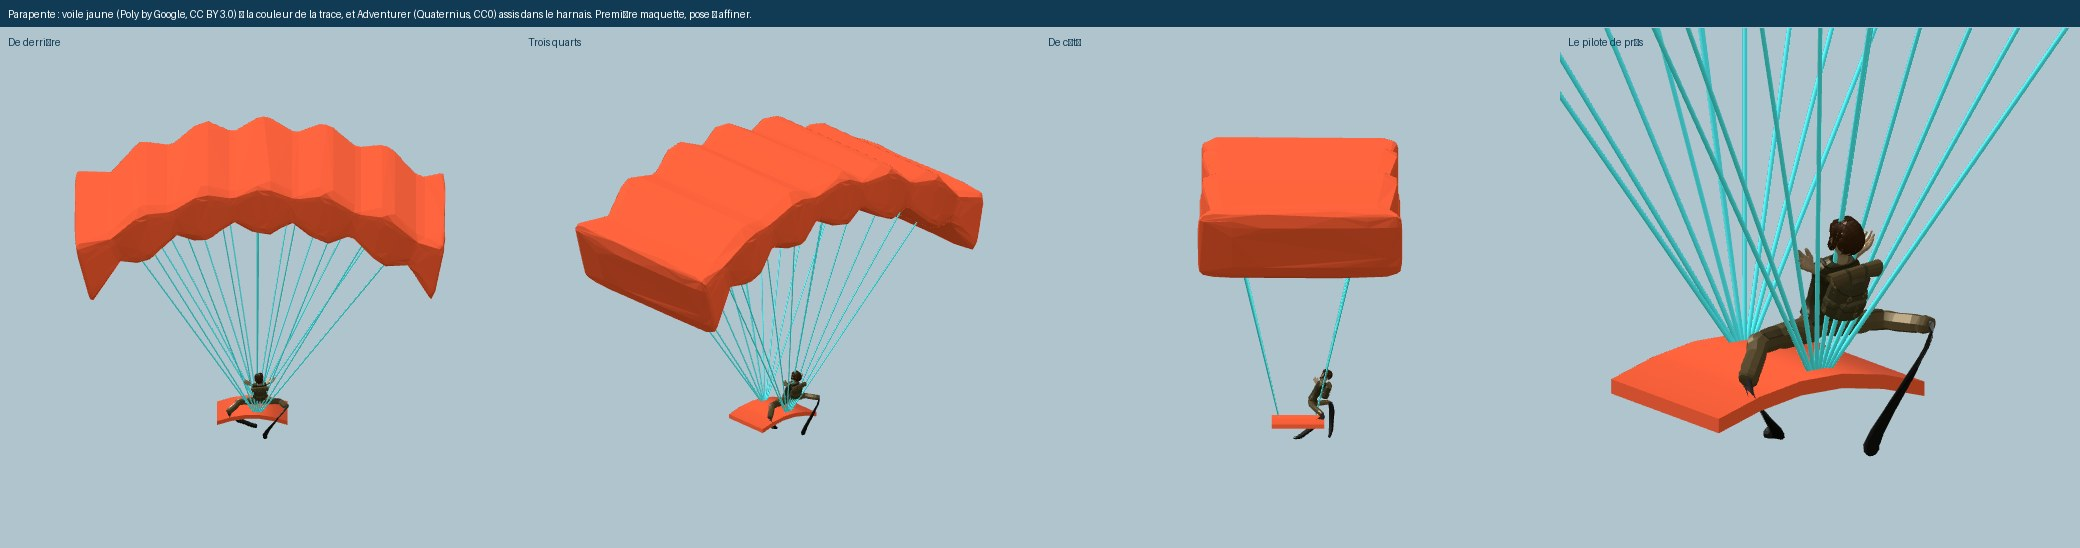
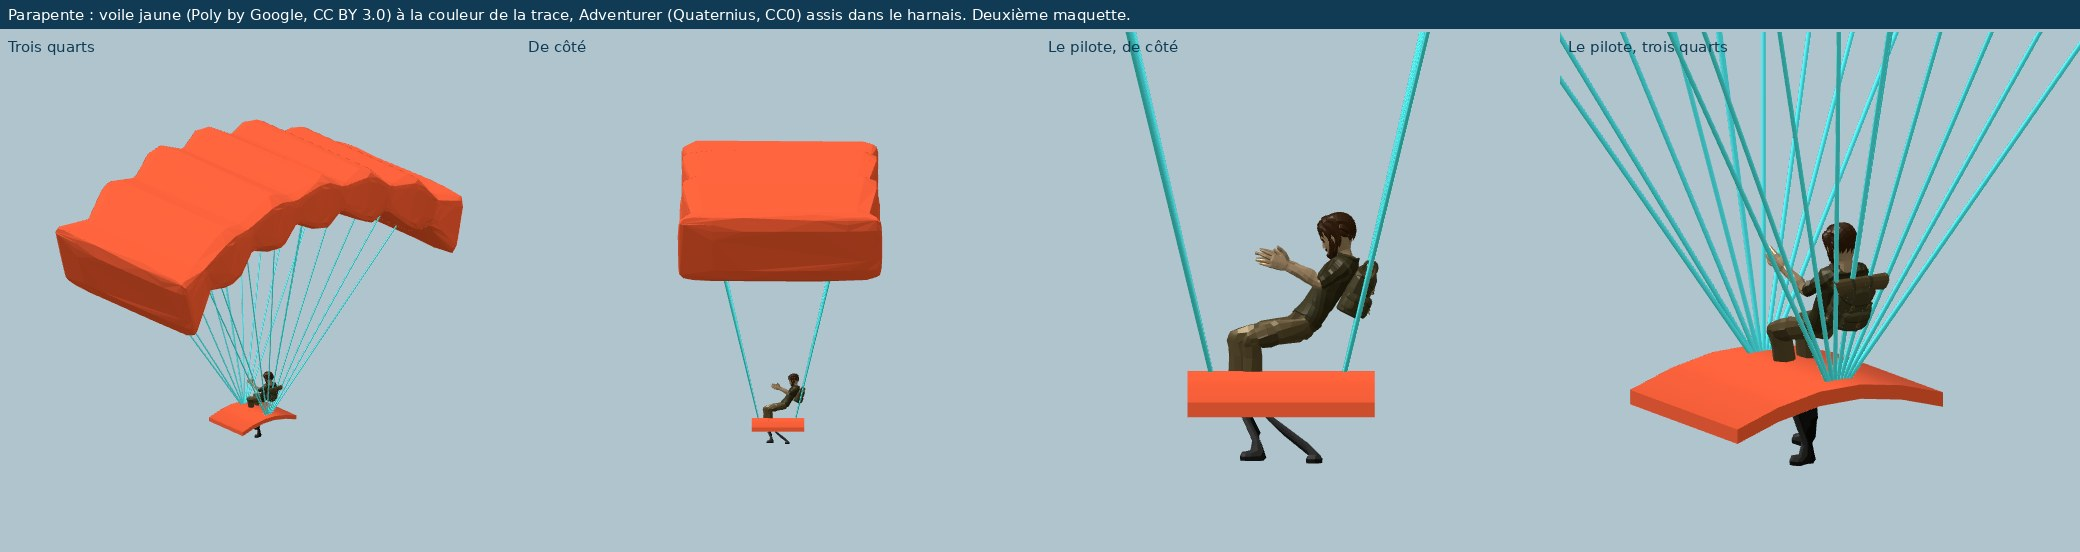
wip(lab): seated paraglider pilot posed by target directions (second mock)

Changed region(s): [[0.0, 0.0, 1.0, 0.8376], [0.0, 0.2172, 0.25, 0.8066], [0.25, 0.2172, 0.5, 0.8066]]

diff --git a/e2e/marker-sheet/pilot.ts b/e2e/marker-sheet/pilot.ts
@@ -1,4 +1,4 @@
-import { AmbientLight, AnimationMixer, Box3, Color, DirectionalLight, DoubleSide, Group, HemisphereLight, Mesh, MeshStandardMaterial, Object3D, OrthographicCamera, Scene, Vector3, WebGLRenderer } from '/node_modules/three/build/three.module.js'
+import { AmbientLight, Box3, Color, DirectionalLight, DoubleSide, Group, HemisphereLight, Mesh, MeshStandardMaterial, Object3D, OrthographicCamera, Quaternion, Scene, Vector3, WebGLRenderer } from '/node_modules/three/build/three.module.js'
 import { GLTFLoader } from '/node_modules/three/examples/jsm/loaders/GLTFLoader.js'
 import { clone } from '/node_modules/three/examples/jsm/utils/SkeletonUtils.js'
 
@@ -33,34 +33,50 @@ const tint = q.get('tint') !== '0'
   // the span is the longest horizontal side: along X (turn if it is along Z), `flip` turns the glider round
   wingHolder.rotation.y = (size.z > size.x ? Math.PI / 2 : 0) + num('flip', 0) * Math.PI
 
-  // --- the pilot: Adventurer 1.7 m, a walking pose to start from, then the legs and arms posed seated
+  // --- the pilot: Adventurer in its rest pose, every body segment turned towards a target direction (the pilot faces +Z)
   const man = clone(manGltf.scene) as Group
-  const mixer = new AnimationMixer(man)
-  const clip = manGltf.animations.find((a) => /walk/i.test(a.name)) ?? manGltf.animations[0]
-  const action = mixer.clipAction(clip)
-  action.play()
-  action.time = num('phase', 0.1) * clip.duration
-  mixer.update(0)
   man.updateMatrixWorld(true)
   const bones: Record<string, Object3D> = {}
   man.traverse((o) => { if ((o as { isBone?: boolean }).isBone) bones[o.name] = o })
-  const rot = (name: string, x: number, y = 0, z = 0) => {
-    const b = bones[name.replace('.', '')]
-    if (!b) return
-    b.rotateX(x)
-    b.rotateY(y)
-    b.rotateZ(z)
+  const B = (name: string) => bones[name.replace('.', '')]
+  const wp = (o: Object3D) => o.getWorldPosition(new Vector3())
+  const wq = (o: Object3D) => o.getWorldQuaternion(new Quaternion())
+  /** direction of each bone towards its child at rest, in the bone's own frame: the axis `aim` turns */
+  const axisOf: Record<string, Vector3> = {}
+  const rest = (name: string, child: string) => {
+    const bone = B(name)
+    axisOf[name] = wp(B(child)).sub(wp(bone)).normalize().applyQuaternion(wq(bone).invert())
   }
-  const sit = num('sit', 1.45)
-  for (const side of ['L', 'R']) {
-    rot(`UpperLeg.${side}`, -sit)
-    rot(`LowerLeg.${side}`, num('knee', 1.25))
-    rot(`Foot.${side}`, num('foot', 0.4))
+  for (const [n, c] of [['Hips', 'Abdomen'], ['Abdomen', 'Torso'], ['Torso', 'Chest'], ['Chest', 'Neck'], ['Neck', 'Head'], ['UpperLeg.L', 'LowerLeg.L'], ['UpperLeg.R', 'LowerLeg.R'], ['UpperArm.L', 'LowerArm.L'], ['UpperArm.R', 'LowerArm.R'], ['LowerArm.L', 'Wrist.L'], ['LowerArm.R', 'Wrist.R']] as const) rest(n, c)
+  // the legs end at the knee-to-foot bone, which has no child: it goes the same way as the thigh at rest
+  axisOf['LowerLeg.L'] = axisOf['UpperLeg.L'].clone().applyQuaternion(wq(B('UpperLeg.L'))).applyQuaternion(wq(B('LowerLeg.L')).invert())
+  axisOf['LowerLeg.R'] = axisOf['UpperLeg.R'].clone().applyQuaternion(wq(B('UpperLeg.R'))).applyQuaternion(wq(B('LowerLeg.R')).invert())
+  const aim = (name: string, dir: Vector3) => {
+    const bone = B(name)
+    bone.updateWorldMatrix(true, true)
+    const q = wq(bone)
+    const from = axisOf[name].clone().applyQuaternion(q)
+    const turn = new Quaternion().setFromUnitVectors(from, dir.clone().normalize())
+    const parent = wq(bone.parent!)
+    bone.quaternion.copy(parent.invert().multiply(turn.multiply(q)))
+    bone.updateWorldMatrix(false, true)
   }
-  rot('Abdomen', num('lean', -0.25))
-  for (const side of ['L', 'R']) {
-    rot(`UpperArm.${side}`, num('armx', 0), 0, (side === 'L' ? 1 : -1) * num('armz', 0))
-    rot(`LowerArm.${side}`, num('elbow', 0))
+  const rad = (d: number) => (d * Math.PI) / 180
+  const lean = num('lean', 30)
+  const spine = (deg: number) => new Vector3(0, Math.cos(rad(deg)), -Math.sin(rad(deg)))
+  aim('Hips', spine(lean + 8))
+  aim('Abdomen', spine(lean + 3))
+  aim('Torso', spine(lean - 2))
+  aim('Chest', spine(lean - 6))
+  aim('Neck', new Vector3(0, 1, num('headz', 0.35)))
+  for (const side of [1, -1]) {
+    const n = side === 1 ? 'L' : 'R'
+    const thigh = rad(num('thigh', 22))
+    const shin = rad(num('shin', 65))
+    aim(`UpperLeg.${n}`, new Vector3(side * num('legout', 0.12), -Math.sin(thigh), Math.cos(thigh)))
+    aim(`LowerLeg.${n}`, new Vector3(side * 0.04, -Math.sin(shin), Math.cos(shin)))
+    aim(`UpperArm.${n}`, new Vector3(side * num('armout', 0.35), -num('armdown', 0.6), 0.72))
+    aim(`LowerArm.${n}`, new Vector3(side * 0.1, num('handup', 0.35), 0.93))
   }
   man.updateMatrixWorld(true)
   man.traverse((o) => { (o as Mesh).frustumCulled = false })
@@ -72,8 +88,8 @@ const tint = q.get('tint') !== '0'
   manHolder.updateMatrixWorld(true)
   // the hips go to the harness
   const hips = new Vector3()
-  bones.Hips.getWorldPosition(hips)
-  const harness = new Vector3(0, num('seat', 0.55), num('seatz', 0))
+  B('Hips').getWorldPosition(hips)
+  const harness = new Vector3(0, num('seat', 0.33), num('seatz', -0.12))
   manHolder.position.copy(harness).sub(hips)
 
   const scene = new Scene()
